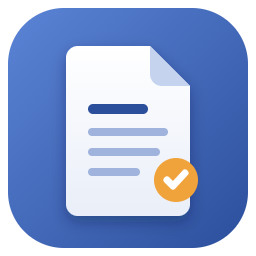
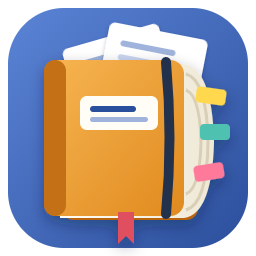
renamed notes viewer to cram

diff --git a/main.js b/main.js
@@ -1,4 +1,4 @@
-// Notes Viewer: main process. Owns all file access; the renderer never touches the disk.
+// Cram: main process. Owns all file access; the renderer never touches the disk.
 // Every write is guarded: saves confirm before overwriting (and detect on-disk changes),
 // new notes never overwrite an existing file, and deletes go to the Recycle Bin after a warning.
 import { app, BrowserWindow, clipboard, dialog, ipcMain, Menu, nativeTheme, screen, shell } from 'electron';
@@ -24,7 +24,19 @@ const MAX_SEARCH_BYTES = 2 * 1024 * 1024; // don't load huge files into the sear
 const configPath = () => path.join(app.getPath('userData'), 'config.json');
 let config = {};
 
+// Before 3.0 the app was called "Notes Viewer", so its settings lived in %APPDATA%\Notes Viewer.
+// The first time Cram starts without settings of its own, it copies those over (the old file stays).
+function migrateOldConfig() {
+  try {
+    const old = path.join(app.getPath('appData'), 'Notes Viewer', 'config.json');
+    if (fs.existsSync(configPath()) || !fs.existsSync(old)) return;
+    fs.mkdirSync(path.dirname(configPath()), { recursive: true });
+    fs.copyFileSync(old, configPath());
+  } catch (err) { console.error('Could not bring over the old settings:', err.message); }
+}
+
 function loadConfig() {
+  migrateOldConfig();
   try { config = JSON.parse(fs.readFileSync(configPath(), 'utf8')); } catch (err) {
     keepCorrupt(configPath(), err);
     config = {};
@@ -228,7 +240,7 @@ async function saveNote(win, root, rel, content, baseMtimeMs, { silent = false }
     const { response } = await dialog.showMessageBox(win, {
       type: 'warning',
       title: 'File changed on disk',
-      message: `"${name}" was changed outside Notes Viewer since you opened it.`,
+      message: `"${name}" was changed outside Cram since you opened it.`,
       detail: 'Saving will overwrite those outside changes with your version.',
       buttons: ['Overwrite with my version', 'Cancel'],
       defaultId: 1,
@@ -279,7 +291,7 @@ async function createNote(win, root) {
     return null;
   }
   if (fs.existsSync(full)) {
-    await dialog.showMessageBox(win, { type: 'error', title: 'New note', message: `"${path.basename(full)}" already exists.`, detail: 'Notes Viewer never overwrites an existing file when creating a note. Pick another name.' });
+    await dialog.showMessageBox(win, { type: 'error', title: 'New note', message: `"${path.basename(full)}" already exists.`, detail: 'Cram never overwrites an existing file when creating a note. Pick another name.' });
     return null;
   }
   const title = path.basename(full).replace(/\.md$/i, '').replace(/[-_]+/g, ' ');
@@ -357,7 +369,7 @@ async function renameNote(win, root, rel) {
   if (newFull === oldFull) return null;
   const caseOnly = samePath(newFull, oldFull);
   if (fs.existsSync(newFull) && !caseOnly) {
-    await dialog.showMessageBox(win, { type: 'error', title: 'Rename or move', message: `"${toPosix(path.relative(realRoot, newFull))}" already exists.`, detail: 'Notes Viewer never overwrites an existing note. Pick another name.' });
+    await dialog.showMessageBox(win, { type: 'error', title: 'Rename or move', message: `"${toPosix(path.relative(realRoot, newFull))}" already exists.`, detail: 'Cram never overwrites an existing note. Pick another name.' });
     return null;
   }
   const newRel = toPosix(path.relative(realRoot, newFull));
@@ -960,7 +972,7 @@ function createWindow() {
     ...visibleBounds(saved.bounds),
     minWidth: 320,
     minHeight: 360,
-    title: 'Notes Viewer',
+    title: 'Cram',
     icon: fs.existsSync(ICON) ? ICON : undefined,
     backgroundColor: nativeTheme.shouldUseDarkColors ? '#1e1f22' : '#fbfbfa',
     show: false,
@@ -1050,7 +1062,7 @@ function smoke(folder) {
 // Installed (NSIS) build: Windows ties notifications and taskbar grouping to the Start menu
 // shortcut's AppUserModelID, which electron-builder sets to the appId. The portable exe has no
 // shortcut, so it keeps Electron's default.
-if (process.platform === 'win32' && app.isPackaged && !process.env.PORTABLE_EXECUTABLE_DIR) app.setAppUserModelId('local.notes-viewer');
+if (process.platform === 'win32' && app.isPackaged && !process.env.PORTABLE_EXECUTABLE_DIR) app.setAppUserModelId('local.cram');
 
 app.whenReady().then(() => {
   if (process.env.NOTES_VIEWER_SMOKE) return smoke(process.env.NOTES_VIEWER_SMOKE);

diff --git a/test/ui/app.test.tsx b/test/ui/app.test.tsx
@@ -50,7 +50,7 @@ describe('sidebar', () => {
     await renderApp({ state: { lastNote: 'react.md' } });
     await waitFor(() => expect(document.getElementById('note-body')).toHaveTextContent('Keys keep state.'));
     expect(document.body).toHaveClass('has-note', 'mode-read');
-    expect(document.title).toBe('react - Notes Viewer');
+    expect(document.title).toBe('react - Cram');
   });
 });
 
@@ -150,12 +150,12 @@ describe('editing', () => {
     expect(document.body).toHaveClass('mode-edit');
     expect(fakeEditor.load).toHaveBeenLastCalledWith('# React\n\nKeys keep state.\n');
     act(() => fakeEditor.type('# React\n\nKeys keep state. Edited.\n'));
-    expect(document.title).toBe('• react - Notes Viewer');
+    expect(document.title).toBe('• react - Cram');
     expect(screen.getByText('● Unsaved changes')).toBeInTheDocument();
     await user.keyboard('{Control>}s{/Control}');
     await waitFor(() => expect(api.saveNote).toHaveBeenCalledWith('react.md', '# React\n\nKeys keep state. Edited.\n', 1, { silent: true }));
     await waitFor(() => expect(screen.getByText(/^Saved · /)).toBeInTheDocument());
-    expect(document.title).toBe('react - Notes Viewer');
+    expect(document.title).toBe('react - Cram');
   });
 
   it('autosave off: Cancel asks before discarding, and stays when you say no', async () => {

diff --git a/e2e/app.spec.ts b/e2e/app.spec.ts
@@ -41,7 +41,7 @@ test('read ⇄ edit keeps the same section on screen, and Done saves', async ({ 
 
   // Type at the cursor (it lands where you were reading).
   await page.keyboard.type('EDITED ');
-  await expect(page).toHaveTitle('• long - Notes Viewer');
+  await expect(page).toHaveTitle('• long - Cram');
 
   // Scroll elsewhere in the editor, then Done → reading continues from the same section.
   // Let CodeMirror finish keeping the cursor in view after typing, then scroll away.
@@ -202,7 +202,7 @@ test('menus: favorite from the sidebar, folder color, theme', async ({ page, app
   const settings = page.locator('#settings');
   await expect(settings).toBeVisible();
   await expect(settings.locator('.setting-folder .path')).toHaveText(/notes$/);
-  await expect(settings.locator('.settings-foot')).toContainText(`Notes Viewer ${JSON.parse(fs.readFileSync(new URL('../package.json', import.meta.url), 'utf8')).version}`);
+  await expect(settings.locator('.settings-foot')).toContainText(`Cram ${JSON.parse(fs.readFileSync(new URL('../package.json', import.meta.url), 'utf8')).version}`);
   await settings.getByRole('group', { name: 'Theme' }).getByText('Light').click();
   await expect.poll(theme).toBe('light');
   await page.keyboard.press('Escape');

diff --git a/e2e/migrate.spec.ts b/e2e/migrate.spec.ts
@@ -1,0 +1,23 @@
+// The app was renamed from "Notes Viewer" to "Cram": the first launch brings the old settings along.
+import { test, expect } from '@playwright/test';
+import fs from 'node:fs';
+import path from 'node:path';
+import { makeWorkspace, launch } from './fixtures';
+
+test('first launch as Cram copies the Notes Viewer settings', async () => {
+  const ws = makeWorkspace({ lastNote: 'react.md' });
+  const appData = path.join(ws.root, 'appData');
+  const oldDir = path.join(appData, 'Notes Viewer');
+  fs.mkdirSync(oldDir, { recursive: true });
+  fs.renameSync(path.join(ws.userData, 'config.json'), path.join(oldDir, 'config.json'));
+
+  const { app, page } = await launch(ws, { NV_APPDATA: appData });
+  try {
+    await expect(page.locator('#note-title')).toHaveText('react'); // the old notes folder and last note
+    expect(JSON.parse(fs.readFileSync(path.join(ws.userData, 'config.json'), 'utf8'))).toMatchObject({ root: ws.notes });
+    expect(fs.existsSync(path.join(oldDir, 'config.json'))).toBe(true); // copied, not moved
+  } finally {
+    await app.close();
+    fs.rmSync(ws.root, { recursive: true, force: true });
+  }
+});

diff --git a/e2e/fixtures.ts b/e2e/fixtures.ts
@@ -68,11 +68,11 @@ export function makeWorkspace(config: Record<string, unknown> = {}): Workspace {
   return { root, notes, quizzes, userData, read: (rel) => fs.readFileSync(path.join(notes, rel), 'utf8') };
 }
 
-export async function launch(ws: Workspace): Promise<{ app: ElectronApplication; page: Page }> {
+export async function launch(ws: Workspace, env: Record<string, string> = {}): Promise<{ app: ElectronApplication; page: Page }> {
   const app = await electron.launch({
     args: [path.join(APP_DIR, 'e2e', 'launch.mjs')],
     cwd: APP_DIR,
-    env: { ...process.env, NV_USERDATA: ws.userData },
+    env: { ...process.env, NV_USERDATA: ws.userData, ...env },
   });
   const page = await app.firstWindow();
   await page.setViewportSize({ width: 1300, height: 860 });

diff --git a/test/ui/settings.test.tsx b/test/ui/settings.test.tsx
@@ -11,7 +11,7 @@ describe('settings dialog', () => {
     await user.click(screen.getByRole('button', { name: 'Settings' }));
     const dlg = screen.getByRole('dialog', { name: 'Settings' });
     expect(within(dlg).getByText('C:/notes')).toBeInTheDocument();
-    expect(dlg).toHaveTextContent('Notes Viewer 0.0.0-test');
+    expect(dlg).toHaveTextContent('Cram 0.0.0-test');
     expect(dlg).toHaveTextContent(`© ${new Date().getFullYear()} Levan D · MIT License`);
 
     await user.click(within(screen.getByRole('group', { name: 'Theme' })).getByRole('button', { name: 'Dark' }));

diff --git a/test/ui/pomodoro.test.tsx b/test/ui/pomodoro.test.tsx
@@ -68,7 +68,7 @@ describe('pomodoro', () => {
     await user.click(within(pop).getByRole('button', { name: 'Stop' }));
     expect(usePomo.getState().phase).toBeNull();
     expect(pill()).toHaveTextContent('Pomodoro');
-    expect(document.title).toBe('Notes Viewer');
+    expect(document.title).toBe('Cram');
     // One session today: one dot on, and the session was counted once for the whole run.
     expect(pill().querySelectorAll('.pomo-dots span.on')).toHaveLength(1);
     expect(api.activityBump!.mock.calls.filter((c) => c[0] === 'session')).toHaveLength(1);

diff --git a/index.html b/index.html
@@ -8,7 +8,7 @@
   <meta http-equiv="Content-Security-Policy"
         content="default-src 'none'; script-src 'self'; style-src 'self' 'unsafe-inline'; img-src 'self' file: data:; font-src 'self'; connect-src 'none'; object-src 'none'; base-uri 'none'; form-action 'none'">
   <meta name="viewport" content="width=device-width, initial-scale=1">
-  <title>Notes Viewer</title>
+  <title>Cram</title>
   <link rel="stylesheet" href="node_modules/katex/dist/katex.min.css">
   <link rel="stylesheet" href="style.css">
 </head>

diff --git a/src/ui/App.tsx b/src/ui/App.tsx
@@ -99,7 +99,7 @@ function useWindowTitle() {
   const dirty = useApp((s) => s.dirty);
   const pomo = usePomo((s) => (s.phase ? fmtLeft(msLeft(s)) : '')); // the countdown shows in the taskbar too
   useEffect(() => {
-    const base = title ? `${dirty ? '• ' : ''}${title} - Notes Viewer` : 'Notes Viewer';
+    const base = title ? `${dirty ? '• ' : ''}${title} - Cram` : 'Cram';
     document.title = pomo ? `🍅 ${pomo} · ${base}` : base;
   }, [title, dirty, pomo]);
 }

diff --git a/src/ui/NoteArea.tsx b/src/ui/NoteArea.tsx
@@ -17,7 +17,7 @@ export function NoteArea() {
   return (
     <div id="body">
       <section id="welcome" hidden={view !== 'welcome'}>
-        <h1>Notes Viewer</h1>
+        <h1>Cram</h1>
         <p>Pick the folder that holds your markdown notes. It will be remembered.</p>
         <button id="choose-folder" type="button" className="primary-btn" onClick={() => void changeFolder()}>Choose notes folder</button>
       </section>

diff --git a/src/main.tsx b/src/main.tsx
@@ -1,4 +1,4 @@
-// Notes Viewer: renderer entry (bundled by esbuild into renderer.bundle.js).
+// Cram: renderer entry (bundled by esbuild into renderer.bundle.js).
 // Talks to the main process only through window.notesApi (preload.cjs, typed in api.ts). All
 // writes and all file warnings happen in the main process; the renderer only decides *when* to ask.
 import { createRoot } from 'react-dom/client';

diff --git a/style.css b/style.css
@@ -1,4 +1,4 @@
-/* Notes Viewer: calm neutral palette, light + dark via prefers-color-scheme.
+/* Cram: calm neutral palette, light + dark via prefers-color-scheme.
    Layout breakpoints:  < 760px  sidebar is a slide-over drawer, icon-only toolbar
                         760–1199 sidebar docked, contents as a popover
                         ≥ 1200   sidebar + note + docked contents */
